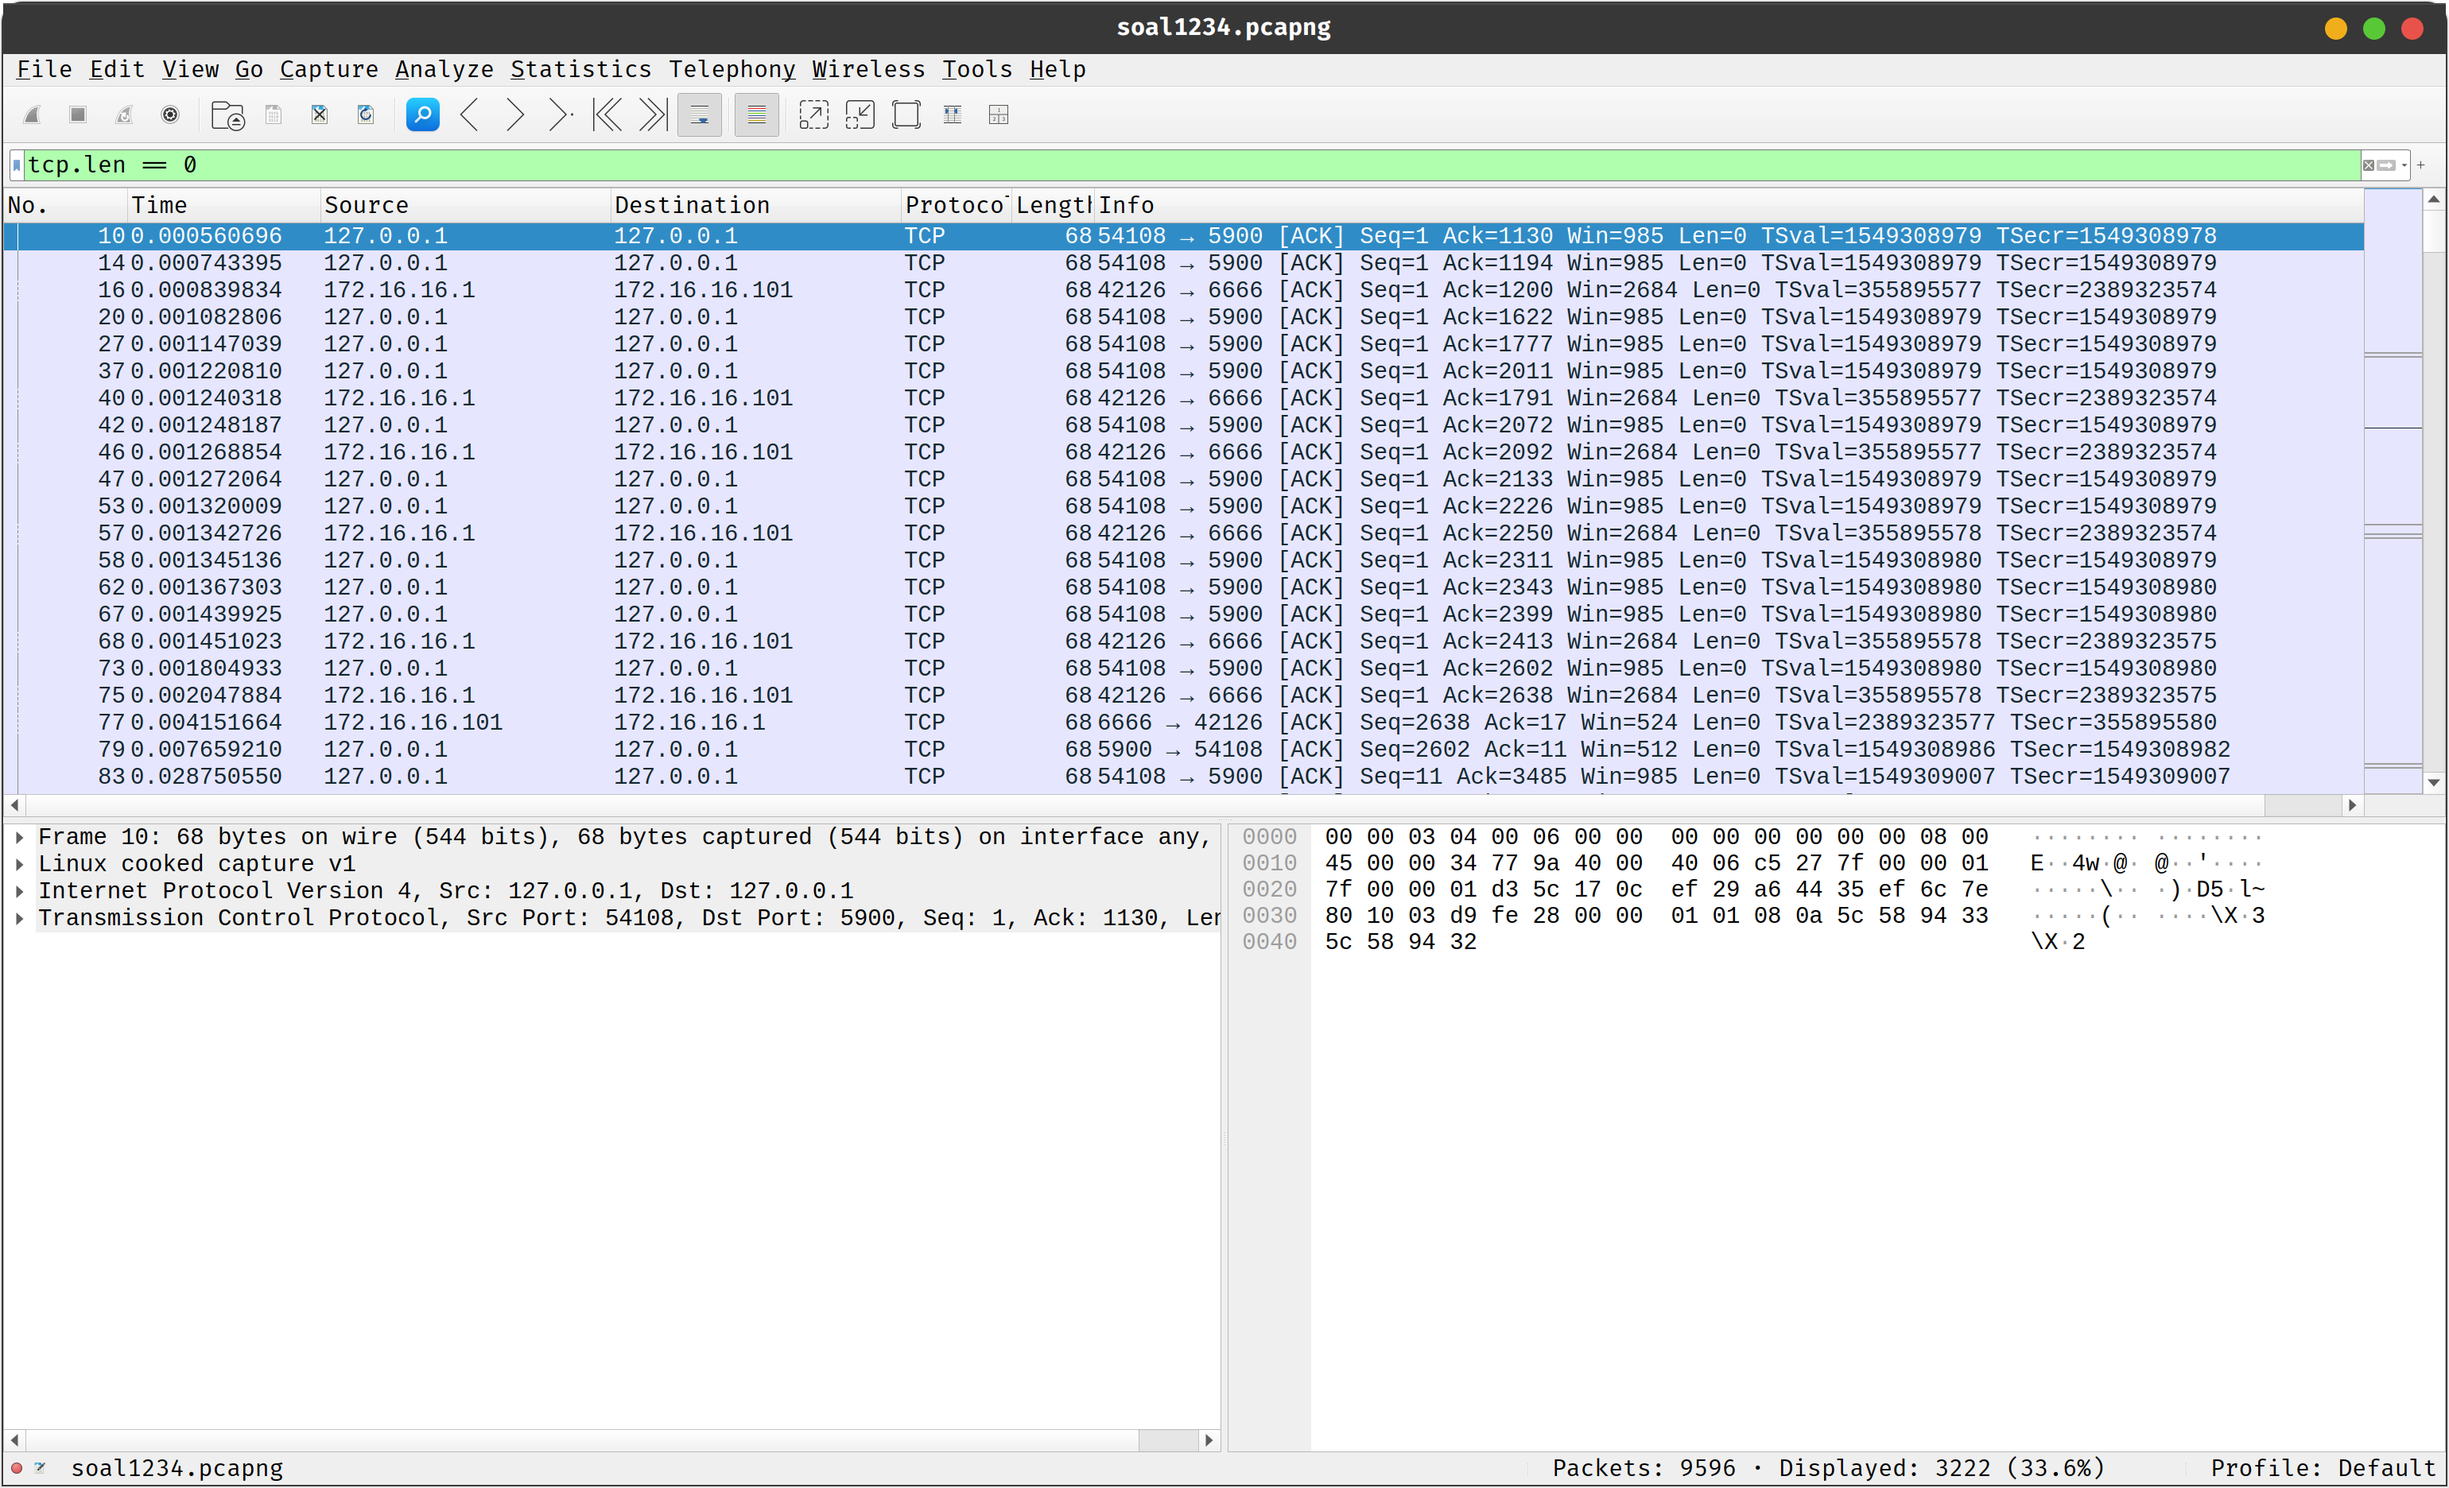
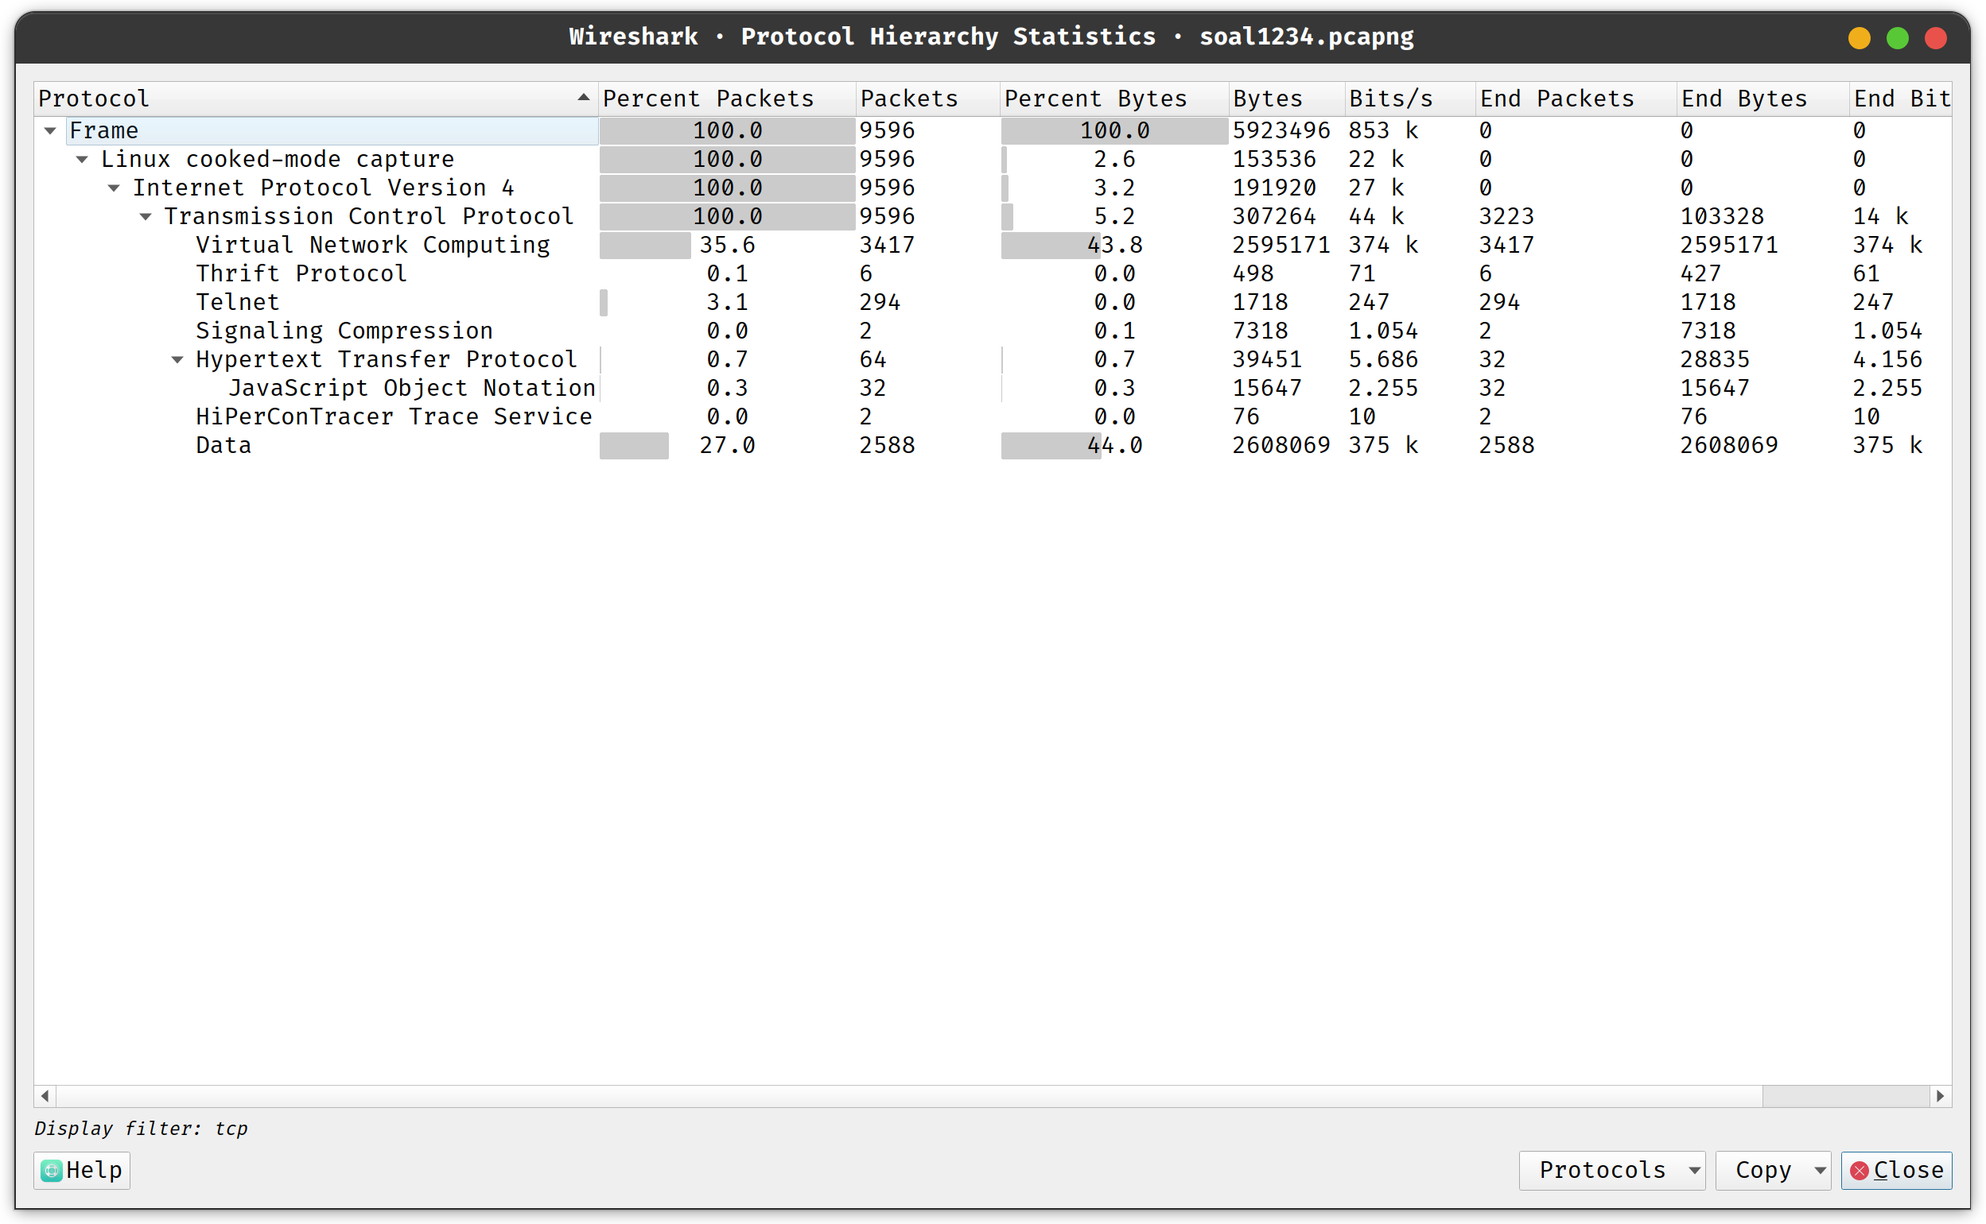
update penjelasan

diff --git a/Semester_3/JarKom_Praktikum_1_Wireshark/README.md b/Semester_3/JarKom_Praktikum_1_Wireshark/README.md
@@ -93,12 +93,12 @@
 - Filter expression
 
   ```
-  tcp.len == 0
+  tcp
   ```
 
 - Explanation
 
-  Gunakan display filter `tcp.len == 0` untuk menampilkan packet dengan protokol TCP murni (tanpa data), lalu lihat di pojok kanan bawah wireshark, disitu ada tulisan `Displayed: 3222 (33.6%)`. Namun, waktu saya submit `3222` keluar response `incorrect answer` lalu saya coba submit dengan angka `+1` dari package yang terdisplay yaitu `3223` ternyata jawabannya benar.
+  Buka `Protocol Hierarchy` di menu `Statistics`, lalu pada bagian `tcp` terdapat `9596 packets`, karena dicari `tcp` yang murni (tanpa data) maka kita kurangi 9596 dengan semua protocal yang ada dibawah `tcp`. Jadi jawabannya adalah `9596-3417-6-294-2-64-2-2588` yaitu `3223`.
 
 - Output result
 
